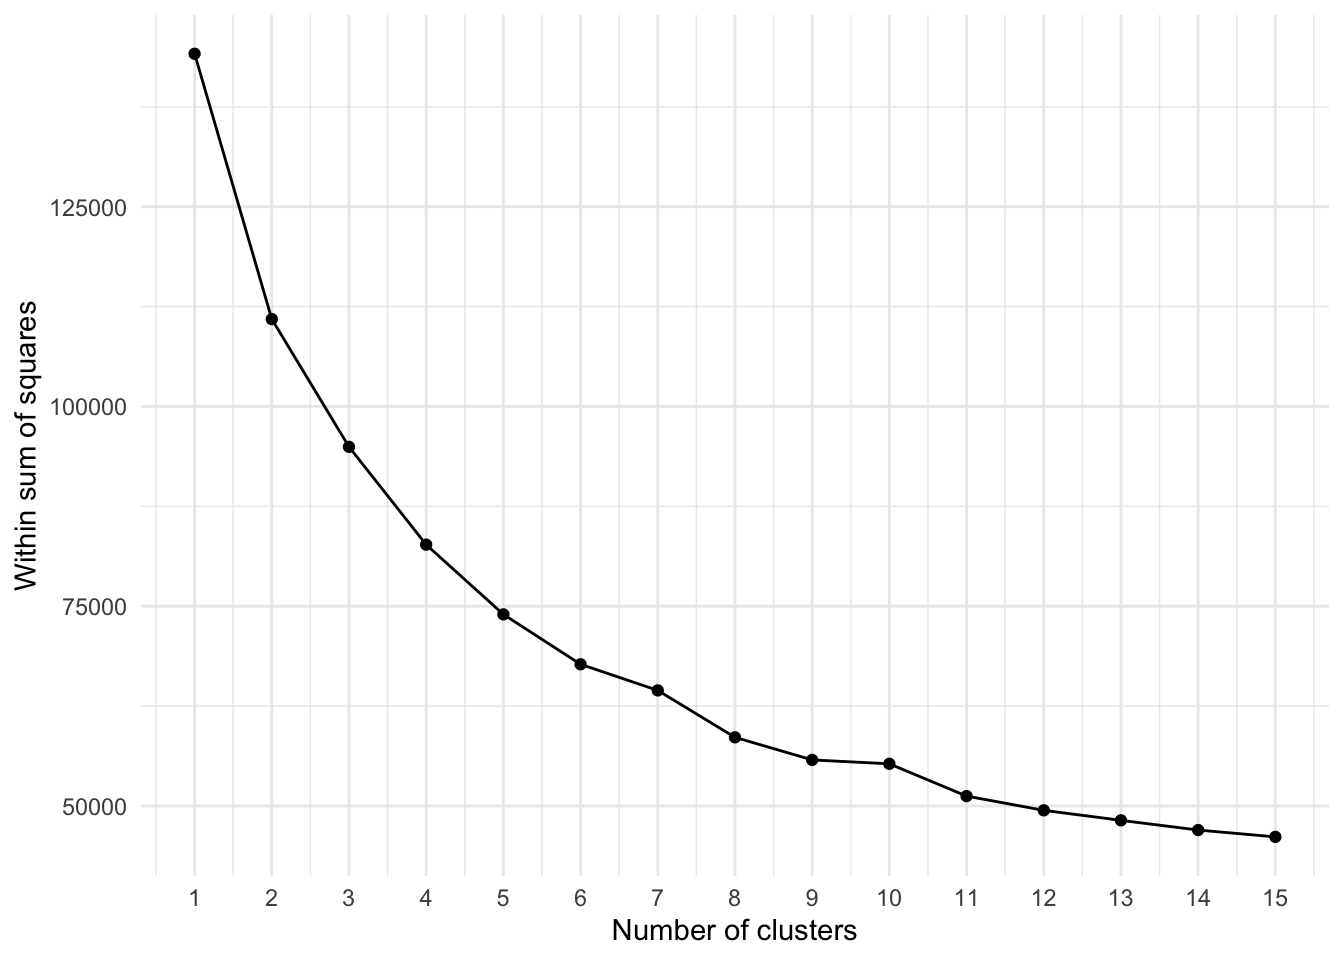
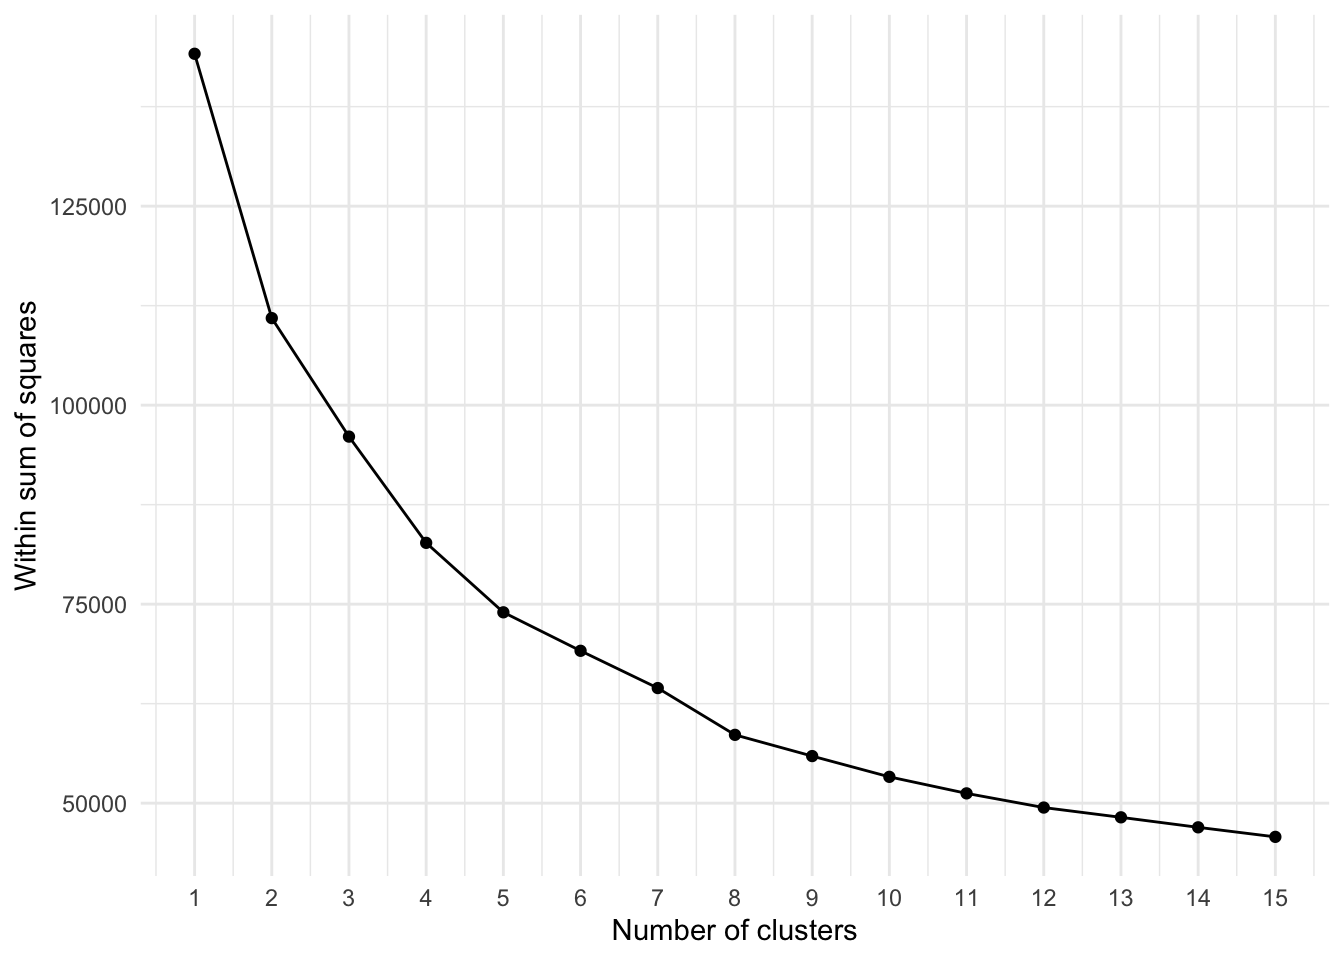
add suggested reading on k-means

diff --git a/docs/01-geodemographics.html b/docs/01-geodemographics.html
@@ -229,6 +229,7 @@ pre > code.sourceCode > span > a:first-child::before { text-decoration: underlin
 <section id="suggested-readings" class="level4 unnumbered">
 <h4 class="unnumbered anchored" data-anchor-id="suggested-readings">Suggested readings</h4>
 <ul>
+<li>Fränti, P., Sieronoja, S. 2019. How much can k-means be improved by using better initialization and repeats? <em>Pattern Recognition</em> 93: 95-112. <a href="https://doi.org/10.1016/j.patcog.2019.04.014">[Link]</a></li>
 <li>Goodman, A., Wilkinson, P., Stafford, M. <em>et al.</em> 2011. Characterising socio-economic inequalities in exposure to air pollution: A comparison of socio-economic markers and scales of measurement. <em>Health &amp; Place</em> 17(3): 767-774. <a href="https://doi.org/10.1016/j.healthplace.2011.02.002">[Link]</a></li>
 <li>Singleton, A. and Spielman, S. 2014. The past, present, and future of geodemographic research in the United States and United Kingdom. <em>The Professional Geographer</em> 66(4): 558-567. <a href="https://doi.org/10.1080/00330124.2013.848764">[Link]</a></li>
 </ul>
@@ -705,7 +706,7 @@ First 10 features:
 [1] 110934.1
 
 [[3]]
-[1] 94944.45
+[1] 96048.04
 
 [[4]]
 [1] 82701.63
@@ -802,7 +803,7 @@ First 10 features:
 <div class="sourceCode cell-code" id="cb25"><pre class="sourceCode r code-with-copy"><code class="sourceCode r"><span id="cb25-1"><a href="#cb25-1" aria-hidden="true" tabindex="-1"></a><span class="co"># inspect</span></span>
 <span id="cb25-2"><a href="#cb25-2" aria-hidden="true" tabindex="-1"></a>clusters</span></code><button title="Copy to Clipboard" class="code-copy-button"><i class="bi"></i></button></pre></div>
 <div class="cell-output cell-output-stdout">
-<pre><code>K-means clustering with 7 clusters of sizes 1814, 541, 1107, 2053, 2039, 740, 186
+<pre><code>K-means clustering with 7 clusters of sizes 740, 1814, 1107, 2039, 2053, 541, 186
 
 Cluster means:
      age0to4pc  age5to14pc age16to24pc age25to44pc age45to64pc age75pluspc
@@ -812,11 +813,11 @@ Cluster means:
  [ reached getOption("max.print") -- omitted 7 rows ]
 
 Clustering vector:
-[1] 6 3 5 5 3
+[1] 1 3 4 4 3
  [ reached getOption("max.print") -- omitted 8475 entries ]
 
 Within cluster sum of squares by cluster:
-[1] 12871.008  6265.986  9429.647 11736.830 11471.872
+[1]  7786.692 12871.008  9429.647 11471.872 11736.830
  [ reached getOption("max.print") -- omitted 2 entries ]
  (between_SS / total_SS =  56.3 %)
 
@@ -842,7 +843,7 @@ Available components:
 <span id="cb27-8"><a href="#cb27-8" aria-hidden="true" tabindex="-1"></a>kfit_size</span></code><button title="Copy to Clipboard" class="code-copy-button"><i class="bi"></i></button></pre></div>
 </div>
 <div class="cell-output cell-output-stdout">
-<pre><code>[1] 1814  541 1107 2053 2039
+<pre><code>[1]  740 1814 1107 2039 2053
  [ reached getOption("max.print") -- omitted 2 entries ]</code></pre>
 </div>
 <div class="sourceCode cell-code" id="cb29"><pre class="sourceCode r code-with-copy"><code class="sourceCode r"><span id="cb29-1"><a href="#cb29-1" aria-hidden="true" tabindex="-1"></a><span class="co"># mean values for each variable in each cluster</span></span>
@@ -855,12 +856,12 @@ Available components:
 <pre><code># A tibble: 7 × 18
   cluster age0to4pc age5to14pc age16to…¹ age25…² age45…³ age75…⁴ 1_hig…⁵ 2_low…⁶
     &lt;int&gt;     &lt;dbl&gt;      &lt;dbl&gt;     &lt;dbl&gt;   &lt;dbl&gt;   &lt;dbl&gt;   &lt;dbl&gt;   &lt;dbl&gt;   &lt;dbl&gt;
-1       1  -0.679      -0.0412   -0.465  -0.773   0.765    0.856  0.845    0.893
-2       2  -0.880      -0.148    -0.523  -0.998   1.22     0.554  0.0251   0.225
+1       1   0.326      -0.923     0.209   2.05   -1.23    -0.927  1.50     1.26 
+2       2  -0.679      -0.0412   -0.465  -0.773   0.765    0.856  0.845    0.893
 3       3   1.56        1.14      0.381   0.626  -1.13    -0.954 -0.906   -1.26 
-4       4  -0.00815    -0.0824   -0.0526 -0.158   0.0919   0.164 -0.837   -0.849
-5       5   0.0162      0.118    -0.172   0.0189  0.202   -0.103 -0.0481   0.211
-6       6   0.326      -0.923     0.209   2.05   -1.23    -0.927  1.50     1.26 
+4       4   0.0162      0.118    -0.172   0.0189  0.202   -0.103 -0.0481   0.211
+5       5  -0.00815    -0.0824   -0.0526 -0.158   0.0919   0.164 -0.837   -0.849
+6       6  -0.880      -0.148    -0.523  -0.998   1.22     0.554  0.0251   0.225
 7       7  -1.52       -2.68      5.42    0.113  -2.62    -1.28   0.870    0.223
 # … with 9 more variables: `3_intermediate_occupations` &lt;dbl&gt;,
 #   `4_employers_small_org` &lt;dbl&gt;, `5_lower_supervisory` &lt;dbl&gt;,
